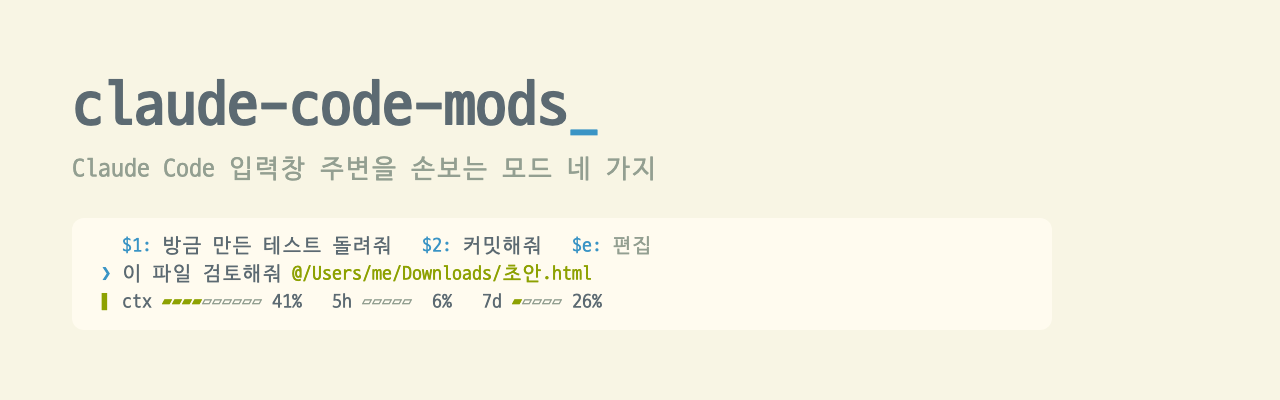
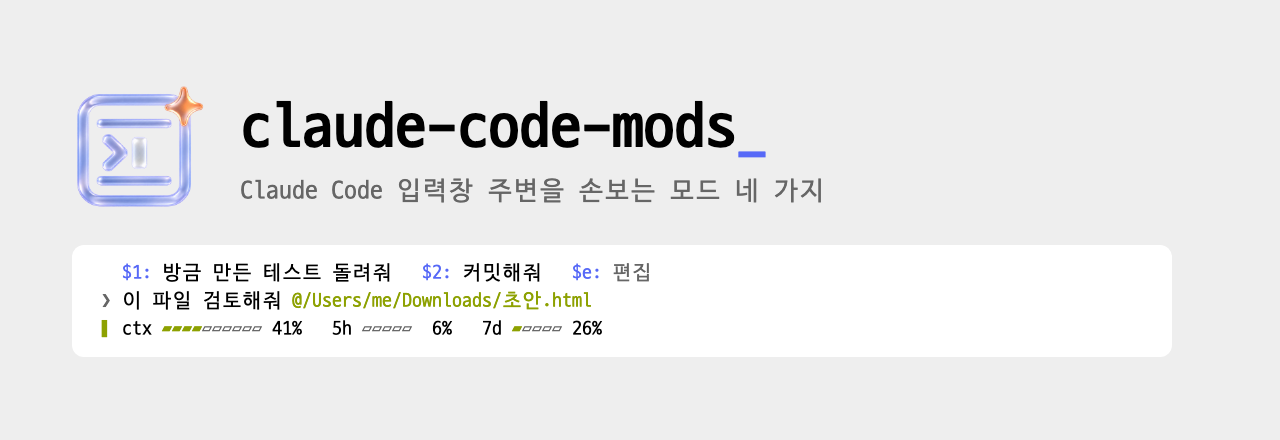
docs: README 보기를 모드 소개로 바꾸고 문구와 장면 다듬기
README 보기 표는 모드 네 개를 한 장면씩 소개하고, 기능별 장면은 각 모드
문서로 옮긴다. 배너에 유리 질감 로고를 넣고, 장면 색을 실제 Claude Code
화면에 맞춘다. 입력창은 장면 맨 아래에 고정한다. README와 docs 문구를
덜 기계적으로 다듬는다.

Changed region(s): [[0.0312, 0.18, 0.6562, 0.48], [0.0938, 0.57, 0.5312, 0.78], [0.8125, 0.54, 0.9375, 0.81]]

diff --git a/docs/development.md b/docs/development.md
@@ -4,80 +4,64 @@
 
 ## 입력창 위를 나눠 쓰는 방법
 
-입력창 위 띠는 한 모드만 그릴 수 있다. 그래서 next-prompts와 quick-replies는 같은 틀(`oobg-band`)을 주고받으며 각자 자기 줄을 끼워 넣는다. 제안이 10번, 프리셋이 20번 자리다. 한쪽만 설치해도 그 모드의 줄만 그려진다.
+입력창 위 영역에는 한 번에 한 모드만 내용을 표시할 수 있다. 그래서 next-prompts와 quick-replies는 공통 형식(`oobg-band`)을 주고받으며 각자 표시할 줄을 추가한다. 배치 순서값은 제안이 10, 프리셋이 20이다. 둘 중 하나만 설치하면 그 모드의 줄만 표시된다.
 
-번호는 각 모드가 스스로 매긴다. next-prompts는 `$1`부터, quick-replies는 지금 떠 있는 제안 개수 다음부터 매긴다. 띠를 합치는 순서와 상관없이 두 모드가 같은 번호를 본다. 편집 화면처럼 띠를 혼자 써야 할 때는 다른 모드가 줄을 넣지 않는 전용 틀을 쓴다.
+번호는 각 모드가 직접 매긴다. next-prompts는 `$1`부터, quick-replies는 현재 표시된 제안 개수 다음부터 매긴다. 줄을 합치는 순서가 달라도 번호는 바뀌지 않는다. 편집 화면처럼 입력창 위 영역을 한 모드만 써야 할 때는 다른 모드가 줄을 추가할 수 없는 전용 형식을 쓴다.
 
 ## 개발 환경
 
-모드를 고칠 때는 설치하지 않고 폴더에서 바로 불러온다. 같은 모드를 설치해 둔 상태라면 두 번 돌지 않게 먼저 꺼 둔다.
+모드를 수정할 때는 설치하지 않고 폴더에서 바로 불러온다. 같은 모드가 이미 설치돼 있다면 중복 실행되지 않도록 먼저 비활성화한다.
 
 ```
-claude --plugin-dir ./quick-replies
+claude --plugin-dir ./mods/quick-replies
 ```
 
 검사와 테스트는 모드 폴더마다 실행한다.
 
 ```
-claude plugin validate ./next-prompts
-claude plugin test ./next-prompts
+claude plugin validate ./mods/next-prompts
+claude plugin test ./mods/next-prompts
 ```
-
-## 장면 렌더링
-
-README의 배너와 기능별 장면은 `demo/`의 Remotion 프로젝트로 그린다. 장면은 `demo/src/scenes/`에 있고, 다크와 라이트 두 벌로 렌더링해 GitHub 테마에 맞춰 보인다. 결과는 `.github/assets/`에 들어간다.
-
-```
-cd demo
-npm install
-npm run render            # 배너와 장면 전부
-npm run render -- editor  # 장면 하나만
-npm run studio            # 브라우저에서 미리 보기
-```
-
-`npm run render --` 뒤에는 장면 이름이나 `banner`를 하나 넣는다. 장면 이름은 `substitute`, `suggest`, `fold`, `editor`, `gauge`, `styles`, `paste`, `undo`다.
-
-글꼴은 [D2Coding](https://github.com/naver/d2codingfont)을 쓴다. 렌더링하는 컴퓨터에 설치돼 있지 않으면 다른 고정폭 글꼴로 바뀌어 한글 폭과 모양이 달라지니, 먼저 설치한다.
 
 ## 구조
 
 ```
 .
 ├── .claude-plugin/
-│   └── marketplace.json      # oobg 마켓플레이스 정의
-├── next-prompts/
-│   ├── .claude-plugin/
-│   │   └── plugin.json       # 모드 이름, 버전, 설명
-│   ├── hooks/
-│   │   ├── hooks.json        # 훅 모듈 목록
-│   │   ├── register.tsx      # 턴이 끝나면 제안을 만들고 띠에 그림, $번호 치환
-│   │   ├── suggest.ts        # 모델에 보낼 요청과 답 정리
-│   │   └── band.ts           # 입력창 위를 나눠 쓰는 틀과 $번호 판별
-│   ├── types/index.d.ts      # 모드가 쓰는 상태의 타입
-│   └── tests/                # claude plugin test로 돌리는 테스트
-├── quick-replies/
-│   └── hooks/
-│       ├── register.tsx      # 프리셋 줄과 편집 화면, $번호 치환
-│       ├── title.ts          # 제목을 지을 때 모델에 보낼 요청과 답 정리
-│       └── band.ts           # next-prompts와 같은 파일
-├── dashboard/
-│   └── hooks/
-│       ├── register.tsx      # 세션 값을 모으고 입력창 아래에 그림
-│       ├── lines.ts          # 세션 값으로 모양과 색을 짜는 순수 함수
-│       └── footer.ts         # 입력창 아래를 나눠 쓰는 틀
-├── key-assist/
-│   └── hooks/
-│       └── register.ts       # 붙여넣은 파일 이름을 경로로 바꾸고, Cmd+Z 키 설정을 한 번 더함
-├── .github/assets/           # README 배너와 기능별 장면(다크, 라이트)
-├── demo/                     # 배너와 장면을 그리는 Remotion 프로젝트
+│   └── marketplace.json          # oobg 마켓플레이스 정의
+├── mods/
+│   ├── next-prompts/
+│   │   ├── .claude-plugin/
+│   │   │   └── plugin.json       # 모드 이름, 버전, 설명
+│   │   ├── hooks/
+│   │   │   ├── hooks.json        # 훅 모듈 목록
+│   │   │   ├── register.tsx      # 턴이 끝나면 제안을 만들어 입력창 위에 표시, $번호 치환
+│   │   │   ├── suggest.ts        # 모델에 보낼 요청과 답 정리
+│   │   │   └── band.ts           # 입력창 위 영역을 나눠 쓰는 형식과 $번호 판별
+│   │   ├── types/index.d.ts      # 모드가 쓰는 상태의 타입
+│   │   └── tests/                # claude plugin test로 돌리는 테스트
+│   ├── quick-replies/
+│   │   └── hooks/
+│   │       ├── register.tsx      # 프리셋 줄과 편집 화면, $번호 치환
+│   │       ├── title.ts          # 제목을 만들 때 모델에 보낼 요청과 답 정리
+│   │       └── band.ts           # next-prompts와 같은 파일
+│   ├── dashboard/
+│   │   └── hooks/
+│   │       ├── register.tsx      # 세션 값을 모아 입력창 아래에 표시
+│   │       ├── lines.ts          # 세션 값으로 모양과 색을 정하는 순수 함수
+│   │       └── footer.ts         # 입력창 아래 영역을 나눠 쓰는 형식
+│   └── key-assist/
+│       └── hooks/
+│           └── register.ts       # 붙여넣은 파일 이름을 경로로 바꾸고, Cmd+Z 키 설정을 한 번 추가
+├── .github/assets/               # README 배너와 기능별 장면(다크, 라이트)
 └── docs/
-    ├── next-prompts.md       # 모드별 문서
+    ├── next-prompts.md           # 모드별 문서
     ├── quick-replies.md
     ├── dashboard.md
     ├── key-assist.md
-    └── development.md        # 이 문서
+    └── development.md            # 이 문서
 ```
 
-`band.ts`는 next-prompts와 quick-replies에 똑같이 들어 있다. 고칠 때는 둘 다 고친다.
+`band.ts`는 next-prompts와 quick-replies에 같은 내용으로 들어 있다. 수정할 때는 두 파일을 함께 고친다.
 
-새 모드를 더하려면 폴더를 만들고 `.claude-plugin/marketplace.json`의 `plugins`에 항목을 추가한다.
+새 모드를 추가하려면 `mods/` 아래에 폴더를 만들고 `.claude-plugin/marketplace.json`의 `plugins`에 항목을 등록한다.

diff --git a/docs/dashboard.md b/docs/dashboard.md
@@ -2,25 +2,30 @@
 
 [← README로 돌아가기](../README.md)
 
-> 상태줄 자리를 비우고, 세션 상태를 권한 모드 줄 밑에 두 줄로 그린다.
+> 기존 상태줄 대신 권한 모드 줄 아래에 세션 상태를 두 줄로 표시한다.
 
-모드가 Claude Code에서 세션 값을 직접 읽어 그린다. 다른 프로그램을 설치하거나 실행하지 않는다.
+모드는 Claude Code에서 세션 정보를 직접 읽어 표시한다. 다른 프로그램을 설치하거나 실행하지 않는다.
+
+<p><picture>
+<source media="(prefers-color-scheme: dark)" srcset="../.github/assets/showcase/gauge-dark.gif">
+<img alt="컨텍스트 게이지가 찰수록 노랑, 주황, 빨강으로 바뀐다" src="../.github/assets/showcase/gauge-light.gif" width="560">
+</picture></p>
 
 ```
-▌ ctx ▰▰▰▰▱▱▱▱▱▱ 41% 409K/1.0M   5h ▰▱▱▱▱  6% (2h13m)   7d ▰▱▱▱▱ 26% (3d4h)   fable ▰▱▱▱▱ 12% (3d4h)
+▌ ctx ▰▰▰▰▱▱▱▱▱▱ 41% (409K/1.0M)   5h ▰▱▱▱▱  6% (2h/13m)   7d ▰▱▱▱▱ 26% (3d/4h)   fable ▰▱▱▱▱ 12% (3d/4h)
 ▌ 🧠 Opus xhigh · 📁 claude-code-mods ⎇ main · 🔑 you@example.com
 ```
 
 | 칸 | 내용 |
 | --- | --- |
-| `ctx` | 컨텍스트가 찬 정도와 쓴 토큰, 전체 크기 |
-| `5h`, `7d` | 사용 한도를 쓴 정도. 괄호 안은 다시 차기까지 남은 시간 |
+| `ctx` | 컨텍스트 사용률, 사용한 토큰 수, 전체 크기 |
+| `5h`, `7d` | 한도 사용률. 괄호 안은 한도가 초기화되기까지 남은 시간 |
 | `fable` | 이번 주 Fable 한도 |
 | `🧠 Opus xhigh` | 모델 계열과 effort |
 | `📁 … ⎇ main` | 프로젝트 폴더와 git 브랜치 |
-| `🔑` | 로그인한 계정의 이메일. API 키로 쓰면 빠진다 |
+| `🔑` | 로그인한 계정의 이메일. API 키를 쓰면 표시하지 않는다 |
 
-화면이 좁으면 이름표 줄 위에 값 줄을 놓는 표로 바뀐다. 컨텍스트가 50%를 넘으면 맨 앞 세로줄이 게이지와 같은 경고 색으로 바뀐다.
+화면이 좁으면 항목 이름 줄 아래에 값 줄이 오는 표로 바뀐다. 컨텍스트 사용률이 50%를 넘으면 맨 앞 세로줄이 게이지와 같은 경고 색으로 바뀐다.
 
 ```
 ▌ MODEL          CONTEXT          5H   7D   FABLE  BRANCH
@@ -29,7 +34,12 @@
 
 ## 모양과 색
 
-`/dashboard-style`로 모양을, `/dashboard-theme`으로 색 구성을 바꾼다. 이름 없이 실행하면 다음 것으로 넘어가고, 고른 값은 다음 세션에도 이어진다.
+<p><picture>
+<source media="(prefers-color-scheme: dark)" srcset="../.github/assets/showcase/styles-dark.gif">
+<img alt="/dashboard-style로 gauge, calm, emoji, compact를 차례로 바꾼다" src="../.github/assets/showcase/styles-light.gif" width="560">
+</picture></p>
+
+`/dashboard-style`로 모양을, `/dashboard-theme`으로 색 구성을 바꾼다. 이름 없이 실행하면 다음 모양이나 색 구성으로 넘어가고, 고른 설정은 다음 세션에도 유지된다.
 
 | 모양 | 생김새 |
 | --- | --- |
@@ -38,14 +48,14 @@
 | `emoji` | `calm`의 각 칸 앞에 이모지를 붙인다 |
 | `compact` | `◆ Opus(X) │ 41% │ $18.17 │ 5시간 6% │ 7일 26% │ Fable 12% │ 🌿 main` 한 줄 |
 
-색 구성은 `everforest`(기본), `nord`, `rose-pine`, `kanagawa` 네 가지다. 모델 이름, 폴더, 브랜치에 색을 하나씩 쓰고, 숫자와 이름표는 각각 한 가지 색으로 맞춘다. 게이지는 여유 색에서 노랑, 주황, 빨강으로 차츰 바뀐다.
+색 구성은 `everforest`(기본), `nord`, `rose-pine`, `kanagawa` 네 가지다. 모델 이름, 폴더, 브랜치에는 각각 다른 색을 쓰고, 숫자와 항목 이름은 각각 한 가지 색으로 맞춘다. 게이지는 사용량이 늘수록 여유를 뜻하는 색에서 노랑, 주황, 빨강 순으로 바뀐다.
 
 ## 알아 둘 점
 
-- 상태줄을 따로 쓰고 있다면 `~/.claude/settings.json`에서 `statusLine` 항목을 지운다. 그대로 두면 대시보드가 두 번 보인다.
-- 메시지를 보낼 때, 턴이 끝날 때, effort가 바뀔 때, 30초마다 다시 그린다.
-- effort는 첫 요청이 나간 뒤에 보인다. 모드가 직접 읽을 수 없어 요청에 실린 값을 받아 둔다.
-- fast 모드는 모드가 상태를 읽을 수 없어 표시하지 않는다.
-- 한도 값은 세션을 열 때와 10분마다 `/usage`를 읽어 채운다. 이때 Claude Code를 하나 더 띄워 `claude -p /usage --safe-mode --no-session-persistence`를 실행한다. 모델은 부르지 않고 기록도 남기지 않으며, 한 번에 3초쯤 걸린다.
-- 입력창 아래 안내 줄은 맨 앞에 권한 모드 표시가 붙어 들여 써진다. 모드는 지금 권한 모드를 알아내 그 폭만큼 왼쪽으로 당긴다. shift+tab으로 바꾼 직후에는 다음 메시지를 보낼 때까지 이전 폭으로 그려진다.
-- 0.1.0까지는 [claude-dashboard](https://github.com/uppinote20/claude-dashboard)를 실행해 그 출력을 옮겨 그렸다. 0.2.0부터는 화면과 공개된 README 설명만 보고 새로 만들었다.
+- 상태줄을 따로 쓰고 있다면 `~/.claude/settings.json`에서 `statusLine` 항목을 지운다. 이 항목이 남아 있으면 대시보드가 두 번 보인다.
+- 메시지를 보낼 때, 턴이 끝날 때, effort가 바뀔 때, 그리고 30초마다 화면을 갱신한다.
+- effort는 첫 요청을 보낸 뒤부터 표시된다. 모드가 effort를 직접 읽을 수 없어서 요청에 담긴 값을 쓴다.
+- fast 모드 여부는 직접 읽을 수 없어 표시하지 않는다.
+- 한도 정보는 세션을 시작할 때와 이후 10분마다 `/usage`에서 가져온다. 이때 `claude -p /usage --safe-mode --no-session-persistence`를 별도 프로세스로 실행한다. 모델을 호출하지 않고 기록도 남기지 않으며, 한 번 조회하는 데 3초쯤 걸린다.
+- 입력창 아래 안내 줄은 앞에 권한 모드 표시가 붙는 만큼 들여쓰기된다. 모드는 현재 권한 모드를 확인해 그 표시 너비만큼 줄을 왼쪽으로 당긴다. shift+tab으로 권한 모드를 바꾸면 다음 메시지를 보낼 때까지 이전 너비가 적용된다.
+- 0.1.0까지는 [claude-dashboard](https://github.com/uppinote20/claude-dashboard)를 실행해 그 출력을 그대로 표시했다. 0.2.0부터는 화면과 공개된 README 설명만 참고해 새로 구현했다.

diff --git a/docs/quick-replies.md b/docs/quick-replies.md
@@ -2,13 +2,23 @@
 
 [← README로 돌아가기](../README.md)
 
-> 매번 치던 "지금 진행상황"을 `$4` 두 글자로 넣는다.
+> 매번 입력하던 "지금 진행상황"을 `$4` 두 글자로 대신한다.
 
-- **전역 프리셋**은 모든 저장소에서 보인다. 처음에는 "지금 진행상황", "맞아 그렇게 진행해" 두 개가 들어 있다.
-- **로컬 프리셋**은 지금 git 저장소에서만 보인다. `로컬` 제목 아래에 따로 나온다.
-- 번호는 다음 제안 다음부터 이어진다. 제안이 없으면 `$1`부터다. `$9`를 넘는 프리셋은 클릭으로만 쓴다.
-- `/ux-writing README 다듬어줘`, `/compact`처럼 `/`로 시작하는 프리셋은 클릭하면 그 스킬이나 명령을 실행한다. 없는 이름이면 실행하지 않고 알림만 띄운다.
-- `접기`를 클릭하면 전역과 로컬을 각각 한 줄에 제목만으로 잇는다. 12자보다 긴 프리셋은 작은 모델(haiku)이 접었을 때 보일 제목을 지어 준다. 접은 상태는 다음 세션에도 이어진다. 입력창에 `$0`을 쳐도 접고 편다.
+<p><picture>
+<source media="(prefers-color-scheme: dark)" srcset="../.github/assets/showcase/substitute-dark.gif">
+<img alt="입력창에 $2를 치면 그 자리에 2번 문구가 들어간다" src="../.github/assets/showcase/substitute-light.gif" width="560">
+</picture></p>
+
+- **전역 프리셋**은 모든 저장소에서 보인다. 기본으로 "지금 진행상황", "맞아 그렇게 진행해" 두 개가 들어 있다.
+- **로컬 프리셋**은 현재 git 저장소에서만 보인다. `로컬` 제목 아래에 따로 나온다.
+- 프리셋 번호는 다음 제안의 번호에 이어서 붙는다. 제안이 없으면 `$1`부터다. 번호가 `$9`를 넘는 프리셋은 클릭해서만 쓸 수 있다.
+- `/ux-writing README 다듬어줘`, `/compact`처럼 `/`로 시작하는 프리셋은 클릭하면 그 스킬이나 명령을 실행한다. 해당 스킬이나 명령이 없으면 실행하지 않고 알림만 띄운다.
+- `접기`를 클릭하면 전역과 로컬 프리셋을 각각 한 줄로 접어 제목만 보여 준다. 12자보다 긴 프리셋은 접었을 때 보일 제목을 작은 모델(haiku)이 만든다. 접어 둔 상태는 다음 세션에도 유지된다. 입력창에 `$0`을 입력해도 접거나 펼칠 수 있다.
+
+<p><picture>
+<source media="(prefers-color-scheme: dark)" srcset="../.github/assets/showcase/fold-dark.gif">
+<img alt="$0을 치면 프리셋을 한 줄로 접고, 다시 치면 펼친다" src="../.github/assets/showcase/fold-light.gif" width="560">
+</picture></p>
 
 ```
  전역  $e: 편집  $0: 펼치기
@@ -19,7 +29,12 @@
 
 ## 편집
 
-입력창에 `$e`를 치거나 `편집`을 클릭하면 입력창 위가 편집 화면으로 바뀐다. 편집하는 동안 키보드는 입력창에 그대로 있고, 입력창에 치는 키를 모드가 가로챈다.
+<p><picture>
+<source media="(prefers-color-scheme: dark)" srcset="../.github/assets/showcase/editor-dark.gif">
+<img alt="$e로 편집 화면을 열고, 입력창에 쓴 문구를 Enter로 저장한다" src="../.github/assets/showcase/editor-light.gif" width="560">
+</picture></p>
+
+입력창에 `$e`를 입력하거나 `편집`을 클릭하면 입력창 위 영역이 편집 화면으로 바뀐다. 편집 중에도 입력 포커스는 입력창에 남아 있고, 모드가 키 입력을 가로채 처리한다.
 
 ```
  프리셋 편집  a: 전역에 추가  l: 로컬에 추가  q: 완료
@@ -31,23 +46,23 @@
  고른 프리셋  e: 문구 수정  t: 제목  d: 삭제  m: 로컬로  k: 위로  j: 아래로
 ```
 
-고르는 중에는 입력창에 친 글자가 들어가지 않고 아래 동작으로만 쓰인다. Enter도 Claude에게 보내지 않는다. 버튼을 클릭해도 같은 동작을 한다.
+프리셋을 고르는 동안에는 입력한 글자가 입력창에 들어가지 않고 아래 표의 동작에만 쓰인다. Enter를 눌러도 Claude에게 메시지를 보내지 않는다. 버튼을 클릭해도 같은 동작을 한다.
 
 | 키 | 동작 |
 | --- | --- |
 | `1`~`9` | 프리셋 고르기 |
 | `a`, `l` | 전역, 로컬에 추가 |
 | `e` | 고른 프리셋의 문구 고쳐 쓰기 |
-| `t` | 고른 프리셋에 제목 달기. 비워 저장하면 모델이 다시 짓는다 |
+| `t` | 고른 프리셋에 제목 달기. 비워서 저장하면 모델이 제목을 다시 만든다 |
 | `d` | 고른 프리셋 삭제 |
 | `m` | 고른 프리셋을 전역과 로컬 사이로 옮기기 |
 | `k`, `j` | 고른 프리셋을 위, 아래로 |
 | `q` | 편집 끝내기 |
 
-`a`, `l`, `e`, `t`를 치면 입력창이 입력칸이 된다. 입력창 글자가 다른 색으로 칠해지고, 문구를 고칠 때는 원래 글이 미리 채워진다. 다 쓰고 Enter를 치면 저장하고 결과를 한 줄로 알린다. 취소하려면 `$q`를 치거나 `취소`를 클릭한다. 입력창 테두리 색은 모드가 바꿀 수 없어 글자 색으로 편집 중임을 보인다.
+`a`, `l`, `e`, `t`를 누르면 입력창에 프리셋 문구나 제목을 입력할 수 있다. 이때 입력창의 글자 색이 바뀌고, 문구를 고칠 때는 기존 문구가 미리 채워진다. 입력을 마치고 Enter를 누르면 저장한 뒤 결과를 한 줄로 알려 준다. 취소하려면 `$q`를 입력하거나 `취소`를 클릭한다. 모드는 입력창 테두리 색을 바꿀 수 없어서 글자 색으로 편집 중임을 표시한다.
 
 편집하는 동안에는 다음 제안을 숨긴다.
 
 ## 저장 위치
 
-프리셋은 Claude Code 설정 폴더 안, 이 모드 전용 저장 공간에 들어간다. 작업 중인 저장소에는 파일을 만들지 않는다. 로컬 프리셋은 git 저장소의 최상위 폴더 단위로 묶이고, git 저장소 밖이면 Claude Code를 연 폴더 단위로 묶인다.
+프리셋은 Claude Code 설정 폴더 안의 모드 전용 저장 공간에 저장된다. 작업 중인 저장소에는 파일을 만들지 않는다. 로컬 프리셋은 git 저장소의 최상위 폴더를 기준으로 구분하고, git 저장소 밖에서는 Claude Code를 연 폴더를 기준으로 구분한다.

diff --git a/docs/key-assist.md b/docs/key-assist.md
@@ -2,27 +2,37 @@
 
 [← README로 돌아가기](../README.md)
 
-> Finder에서 복사한 파일을 붙여넣으면 파일 이름 대신 `@경로`가 들어가고, Cmd+Z로 입력창을 되돌린다. macOS 전용이다.
+> Finder에서 복사한 파일을 붙여넣으면 파일 이름이 `@경로`로 바뀌고, Cmd+Z로 입력 내용을 되돌릴 수 있다. macOS 전용이다.
 
 ## 파일 붙여넣기
 
-Finder에서 파일을 복사해 입력창에 붙여넣으면 터미널은 파일 이름(`메뉴표준화_초안.html`)만 넣는다. 모드는 macOS 클립보드에서 그 파일의 전체 경로를 읽어 `@/Users/me/Downloads/메뉴표준화_초안.html`로 바꾼다.
+<p><picture>
+<source media="(prefers-color-scheme: dark)" srcset="../.github/assets/showcase/paste-dark.gif">
+<img alt="붙여넣은 파일 이름이 @경로로 바뀐다" src="../.github/assets/showcase/paste-light.gif" width="560">
+</picture></p>
 
-- 붙여넣은 글이 클립보드에 든 파일의 이름이나 경로와 같을 때만 바꾼다. 보통 글을 붙여넣을 때는 아무것도 하지 않는다.
-- 경로에 공백이 있으면 `@"/경로 이름/파일"`처럼 따옴표로 감싼다. 여러 파일을 한 번에 붙여넣어 이름들이 공백이나 줄바꿈으로 이어져 들어오면 모두 바꾼다.
-- 붙여넣으면 곧바로 바뀐다. 그 순간을 놓치면 다음 키를 칠 때 바꾸고, 바로 Enter를 치면 보내는 글에서 바꾼다.
-- 클립보드는 `osascript`로 읽는다. 글이 한 번에 덩어리로 들어올 때만 읽고, 한 글자씩 칠 때는 읽지 않는다.
-- 한글 파일 이름은 Finder가 자모를 풀어(NFD) 넘길 때가 있다. 모드는 완성형(NFC)으로 맞춰 비교한다.
+Finder에서 파일을 복사해 입력창에 붙여넣으면 터미널에는 파일 이름(`메뉴표준화_초안.html`)만 입력된다. 모드는 macOS 클립보드에서 그 파일의 전체 경로를 읽어 `@/Users/me/Downloads/메뉴표준화_초안.html`로 바꾼다.
+
+- 붙여넣은 텍스트가 클립보드에 있는 파일의 이름이나 경로와 같을 때만 바꾼다. 일반 텍스트를 붙여넣을 때는 바꾸지 않는다.
+- 경로에 공백이 있으면 `@"/경로 이름/파일"`처럼 따옴표로 감싼다. 여러 파일을 한 번에 붙여넣어 파일 이름이 공백이나 줄바꿈으로 구분되어 들어오면 모두 바꾼다.
+- 붙여넣는 즉시 바뀐다. 즉시 바꾸지 못하면 다음 키를 누를 때 바꾸고, 곧바로 Enter를 누르면 전송하는 내용에서 바꾼다.
+- 클립보드는 `osascript`로 읽는다. 텍스트가 한꺼번에 입력될 때만 클립보드를 읽고, 한 글자씩 입력할 때는 읽지 않는다.
+- Finder가 한글 파일 이름을 자모가 분리된 형태(NFD)로 넘길 때가 있다. 모드는 완성형(NFC)으로 정규화해 비교한다.
 
 ## Cmd+Z로 되돌리기
 
-Claude Code에는 입력창 되돌리기(`chat:undo`, 기본 `ctrl+_`)가 이미 있다. 모드는 Command 키를 받지 못해 Cmd+Z를 직접 처리할 수 없다. 대신 설치한 뒤 처음 연 세션에서 키 설정 파일(`~/.claude/keybindings.json`)의 `Chat` 맥락에 아래 한 줄을 더하고 알림을 띄운다. 파일이 없으면 새로 만든다.
+<p><picture>
+<source media="(prefers-color-scheme: dark)" srcset="../.github/assets/showcase/undo-dark.gif">
+<img alt="Cmd+Z로 방금 바뀐 내용을 되돌린다" src="../.github/assets/showcase/undo-light.gif" width="560">
+</picture></p>
+
+Claude Code에는 입력 내용을 되돌리는 기능(`chat:undo`, 기본 `ctrl+_`)이 이미 있다. 모드는 Command 키 입력을 받을 수 없어 Cmd+Z를 직접 처리하지 못한다. 대신 설치 후 처음 시작한 세션에서 키 설정 파일(`~/.claude/keybindings.json`)의 `Chat` 컨텍스트에 아래 한 줄을 추가하고 알림을 띄운다. 파일이 없으면 새로 만든다.
 
 ```json
 "cmd+z": "chat:undo"
 ```
 
-- 한 번만 더한다. 그 줄을 지우면 다시 넣지 않는다.
-- `cmd+z`를 이미 다른 기능에 정했거나 `null`로 꺼 두었으면 건드리지 않는다. 파일을 JSON으로 읽을 수 없을 때도 그대로 둔다. 이때는 위 한 줄을 직접 넣는다.
-- Command 키를 앱에 넘겨 주는 터미널(Kitty 키보드 프로토콜을 쓰는 Orca, Ghostty, kitty, WezTerm 등)에서만 동작한다.
-- Ctrl+Z는 터미널에서 프로세스를 일시정지하는 키라서 쓰지 않는다. 눌러서 Claude Code가 멈췄다면 `fg`로 돌아온다.
+- 이 줄은 한 번만 추가한다. 나중에 지우면 다시 추가하지 않는다.
+- `cmd+z`가 이미 다른 기능에 할당돼 있거나 `null`로 꺼져 있으면 바꾸지 않는다. 설정 파일을 JSON으로 읽을 수 없을 때도 수정하지 않는다. 이때는 위 한 줄을 직접 추가한다.
+- Command 키 입력을 Claude Code에 전달하는 터미널(Kitty 키보드 프로토콜을 쓰는 Orca, Ghostty, kitty, WezTerm 등)에서만 동작한다.
+- Ctrl+Z는 터미널에서 프로세스를 일시 중지하는 키라서 쓰지 않는다. 실수로 눌러 Claude Code가 멈췄다면 `fg`로 재개한다.

diff --git a/docs/next-prompts.md b/docs/next-prompts.md
@@ -2,11 +2,16 @@
 
 [← README로 돌아가기](../README.md)
 
-> 방금 끝난 답을 보고, 다음에 칠 만한 요청을 미리 꺼내 둔다.
+> 방금 나온 답을 보고 다음에 보낼 만한 요청을 미리 제안한다.
 
-- 턴이 답으로 끝나면 작은 모델(haiku)에 한 번 물어 2~3개를 제안한다. 답이 120자보다 짧으면 묻지 않는다.
-- 모델에는 마지막 요청과 답의 끝부분만 보낸다.
-- 번호는 늘 `$1`부터다. 입력창에 `$1`을 치거나 번호를 클릭해 초안으로 넣고, 문구를 클릭하면 바로 보낸다.
-- `닫기`를 클릭하면 제안을 닫는다. Claude가 작업하는 동안에는 숨기고, 새 프롬프트를 보내면 지운다.
+<p><picture>
+<source media="(prefers-color-scheme: dark)" srcset="../.github/assets/showcase/suggest-dark.gif">
+<img alt="턴이 끝나면 다음에 보낼 만한 요청이 하나씩 나타난다" src="../.github/assets/showcase/suggest-light.gif" width="560">
+</picture></p>
 
-이 모드는 [hamzafer/claude-code-mods](https://hamzafer.github.io/claude-code-mods/mods/next-steps/)의 next-steps에서 아이디어를 얻었다. 코드는 보지 않고 동작 설명만 보고 새로 만들었다.
+- Claude의 답으로 턴이 끝나면 작은 모델(haiku)을 한 번 호출해 다음 요청 2~3개를 제안한다. 답이 120자보다 짧으면 호출하지 않는다.
+- 모델에는 마지막 사용자 요청과 답의 마지막 부분만 보낸다.
+- 번호는 항상 `$1`부터 시작한다. 입력창에 `$1`을 입력하거나 번호를 클릭하면 문구가 입력창에 들어가고, 문구를 클릭하면 바로 보낸다.
+- `닫기`를 클릭하면 제안을 닫는다. 제안은 Claude가 작업하는 동안 숨겨지고, 새 프롬프트를 보내면 사라진다.
+
+이 모드는 [hamzafer/claude-code-mods](https://hamzafer.github.io/claude-code-mods/mods/next-steps/)의 next-steps에서 아이디어를 얻었다. 원본 코드는 보지 않고 동작 설명만 참고해 새로 구현했다.
